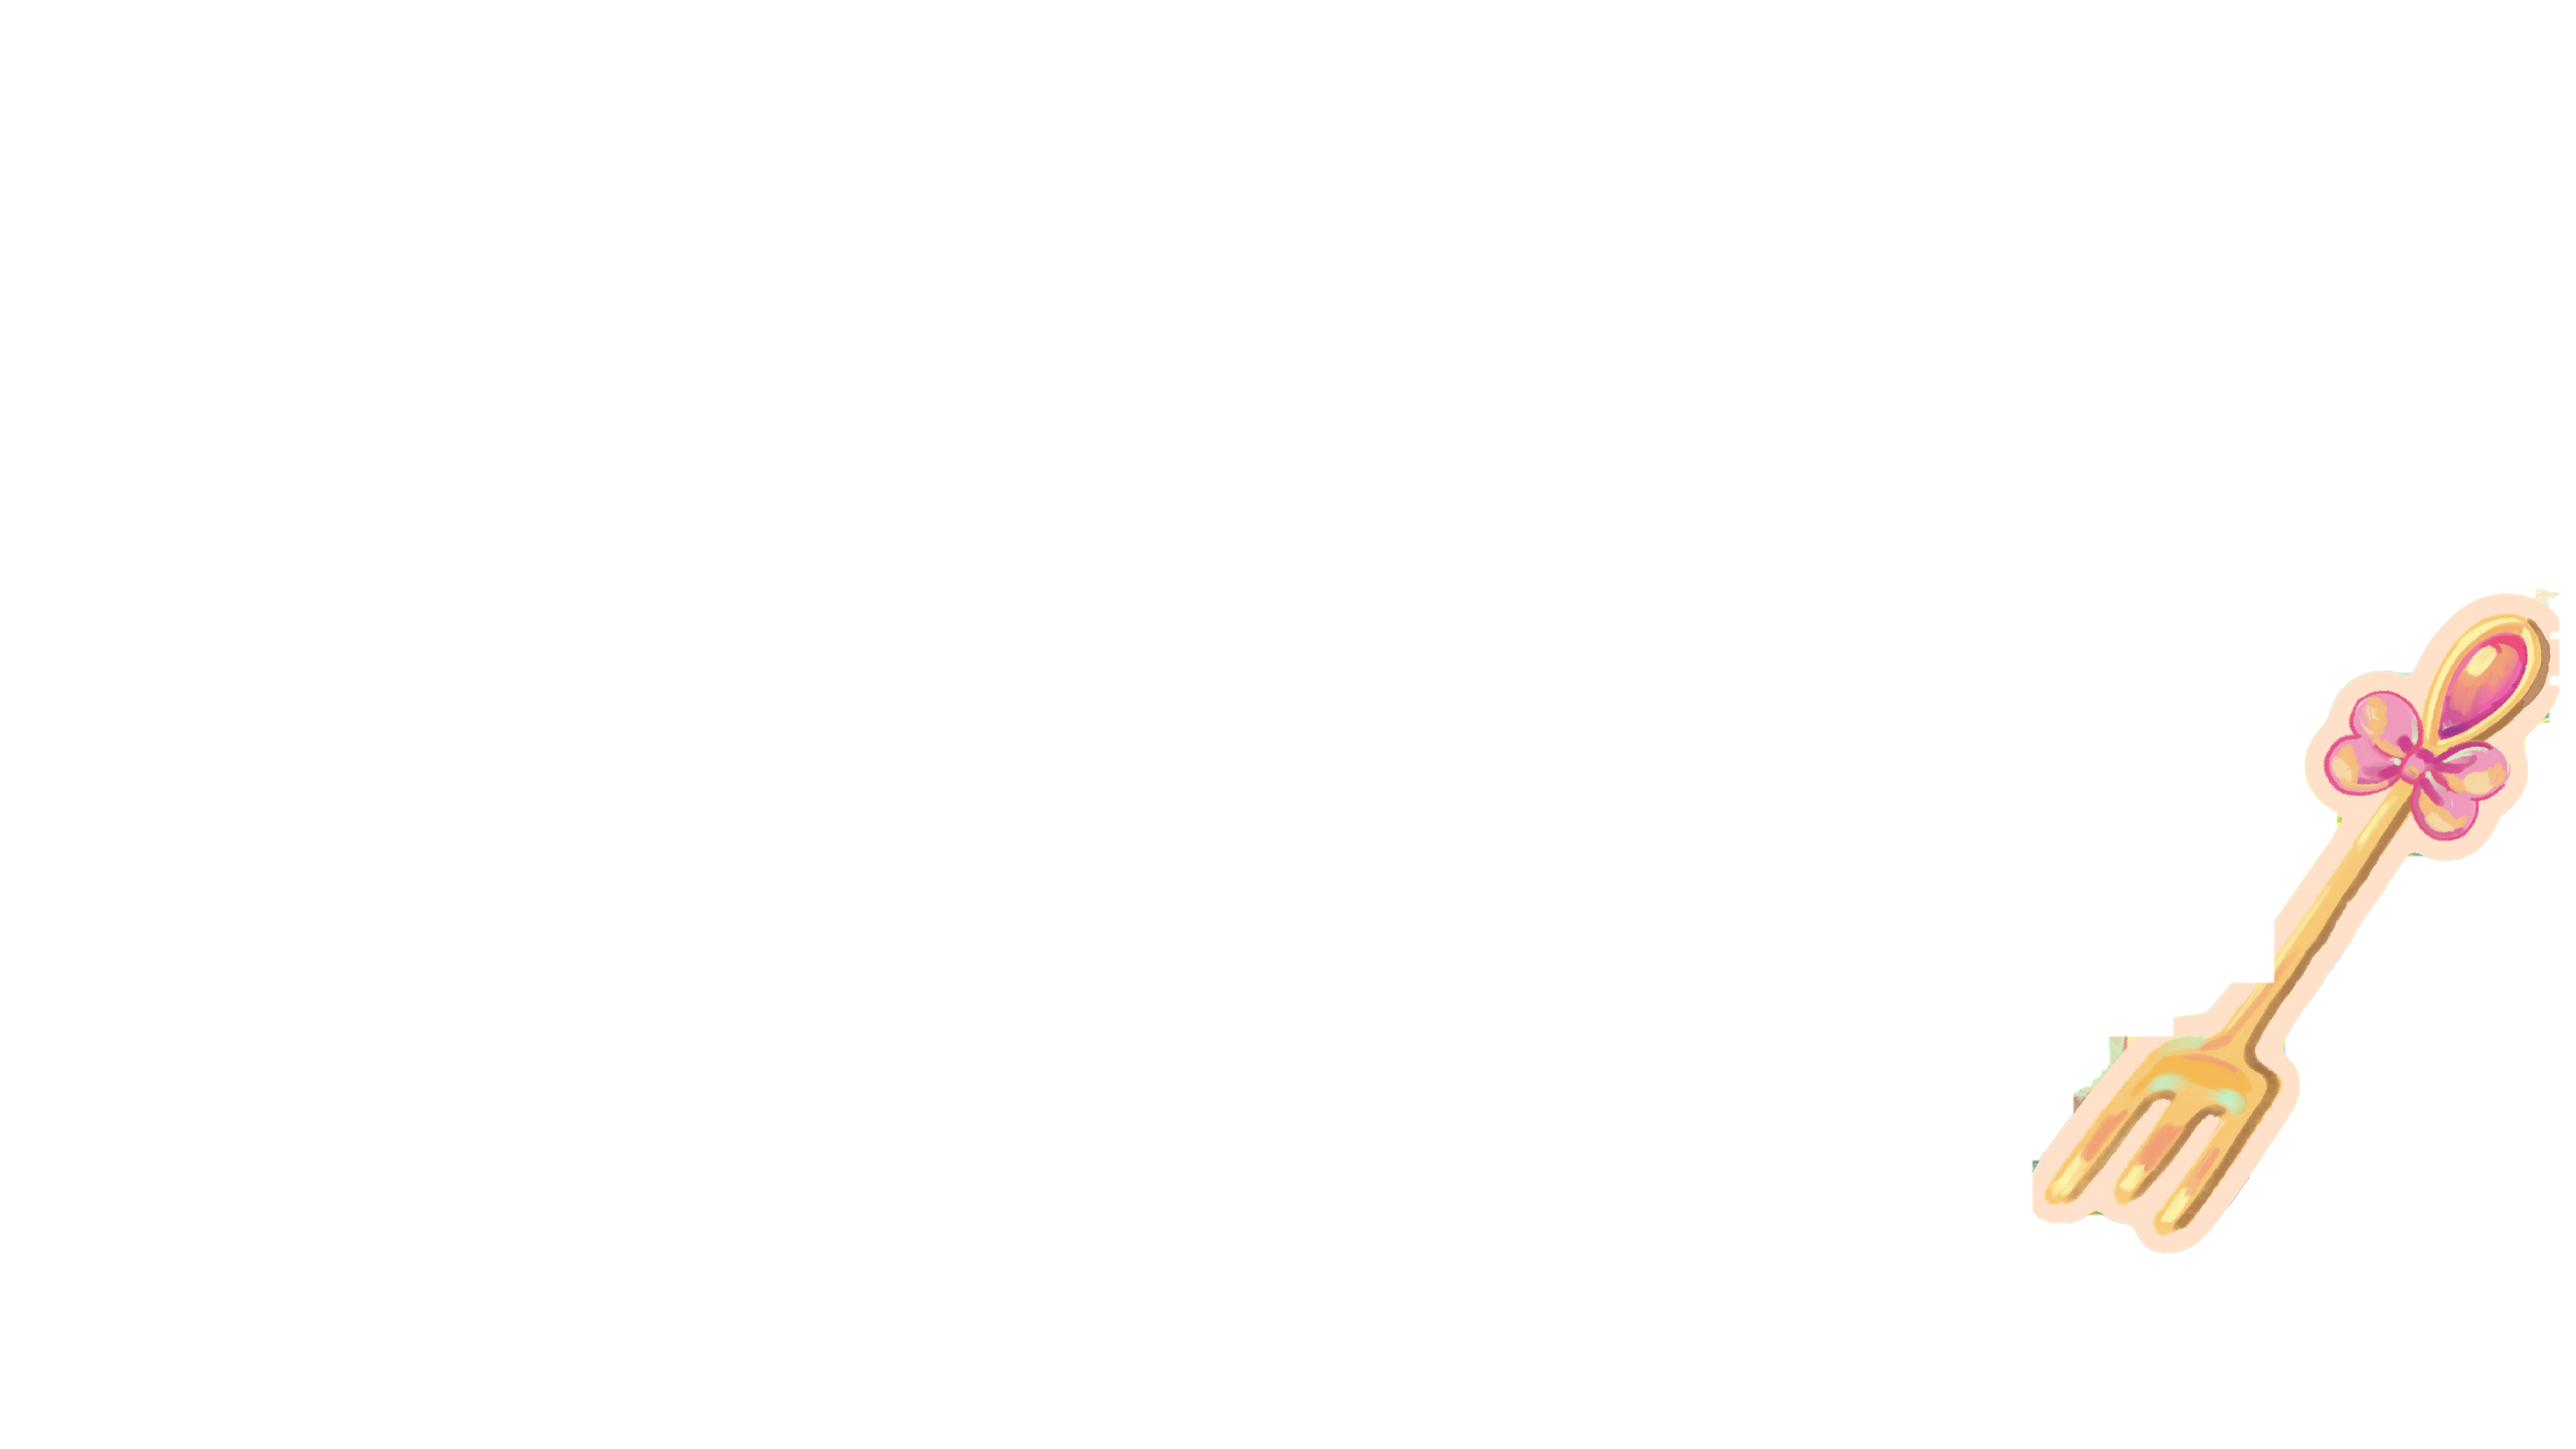
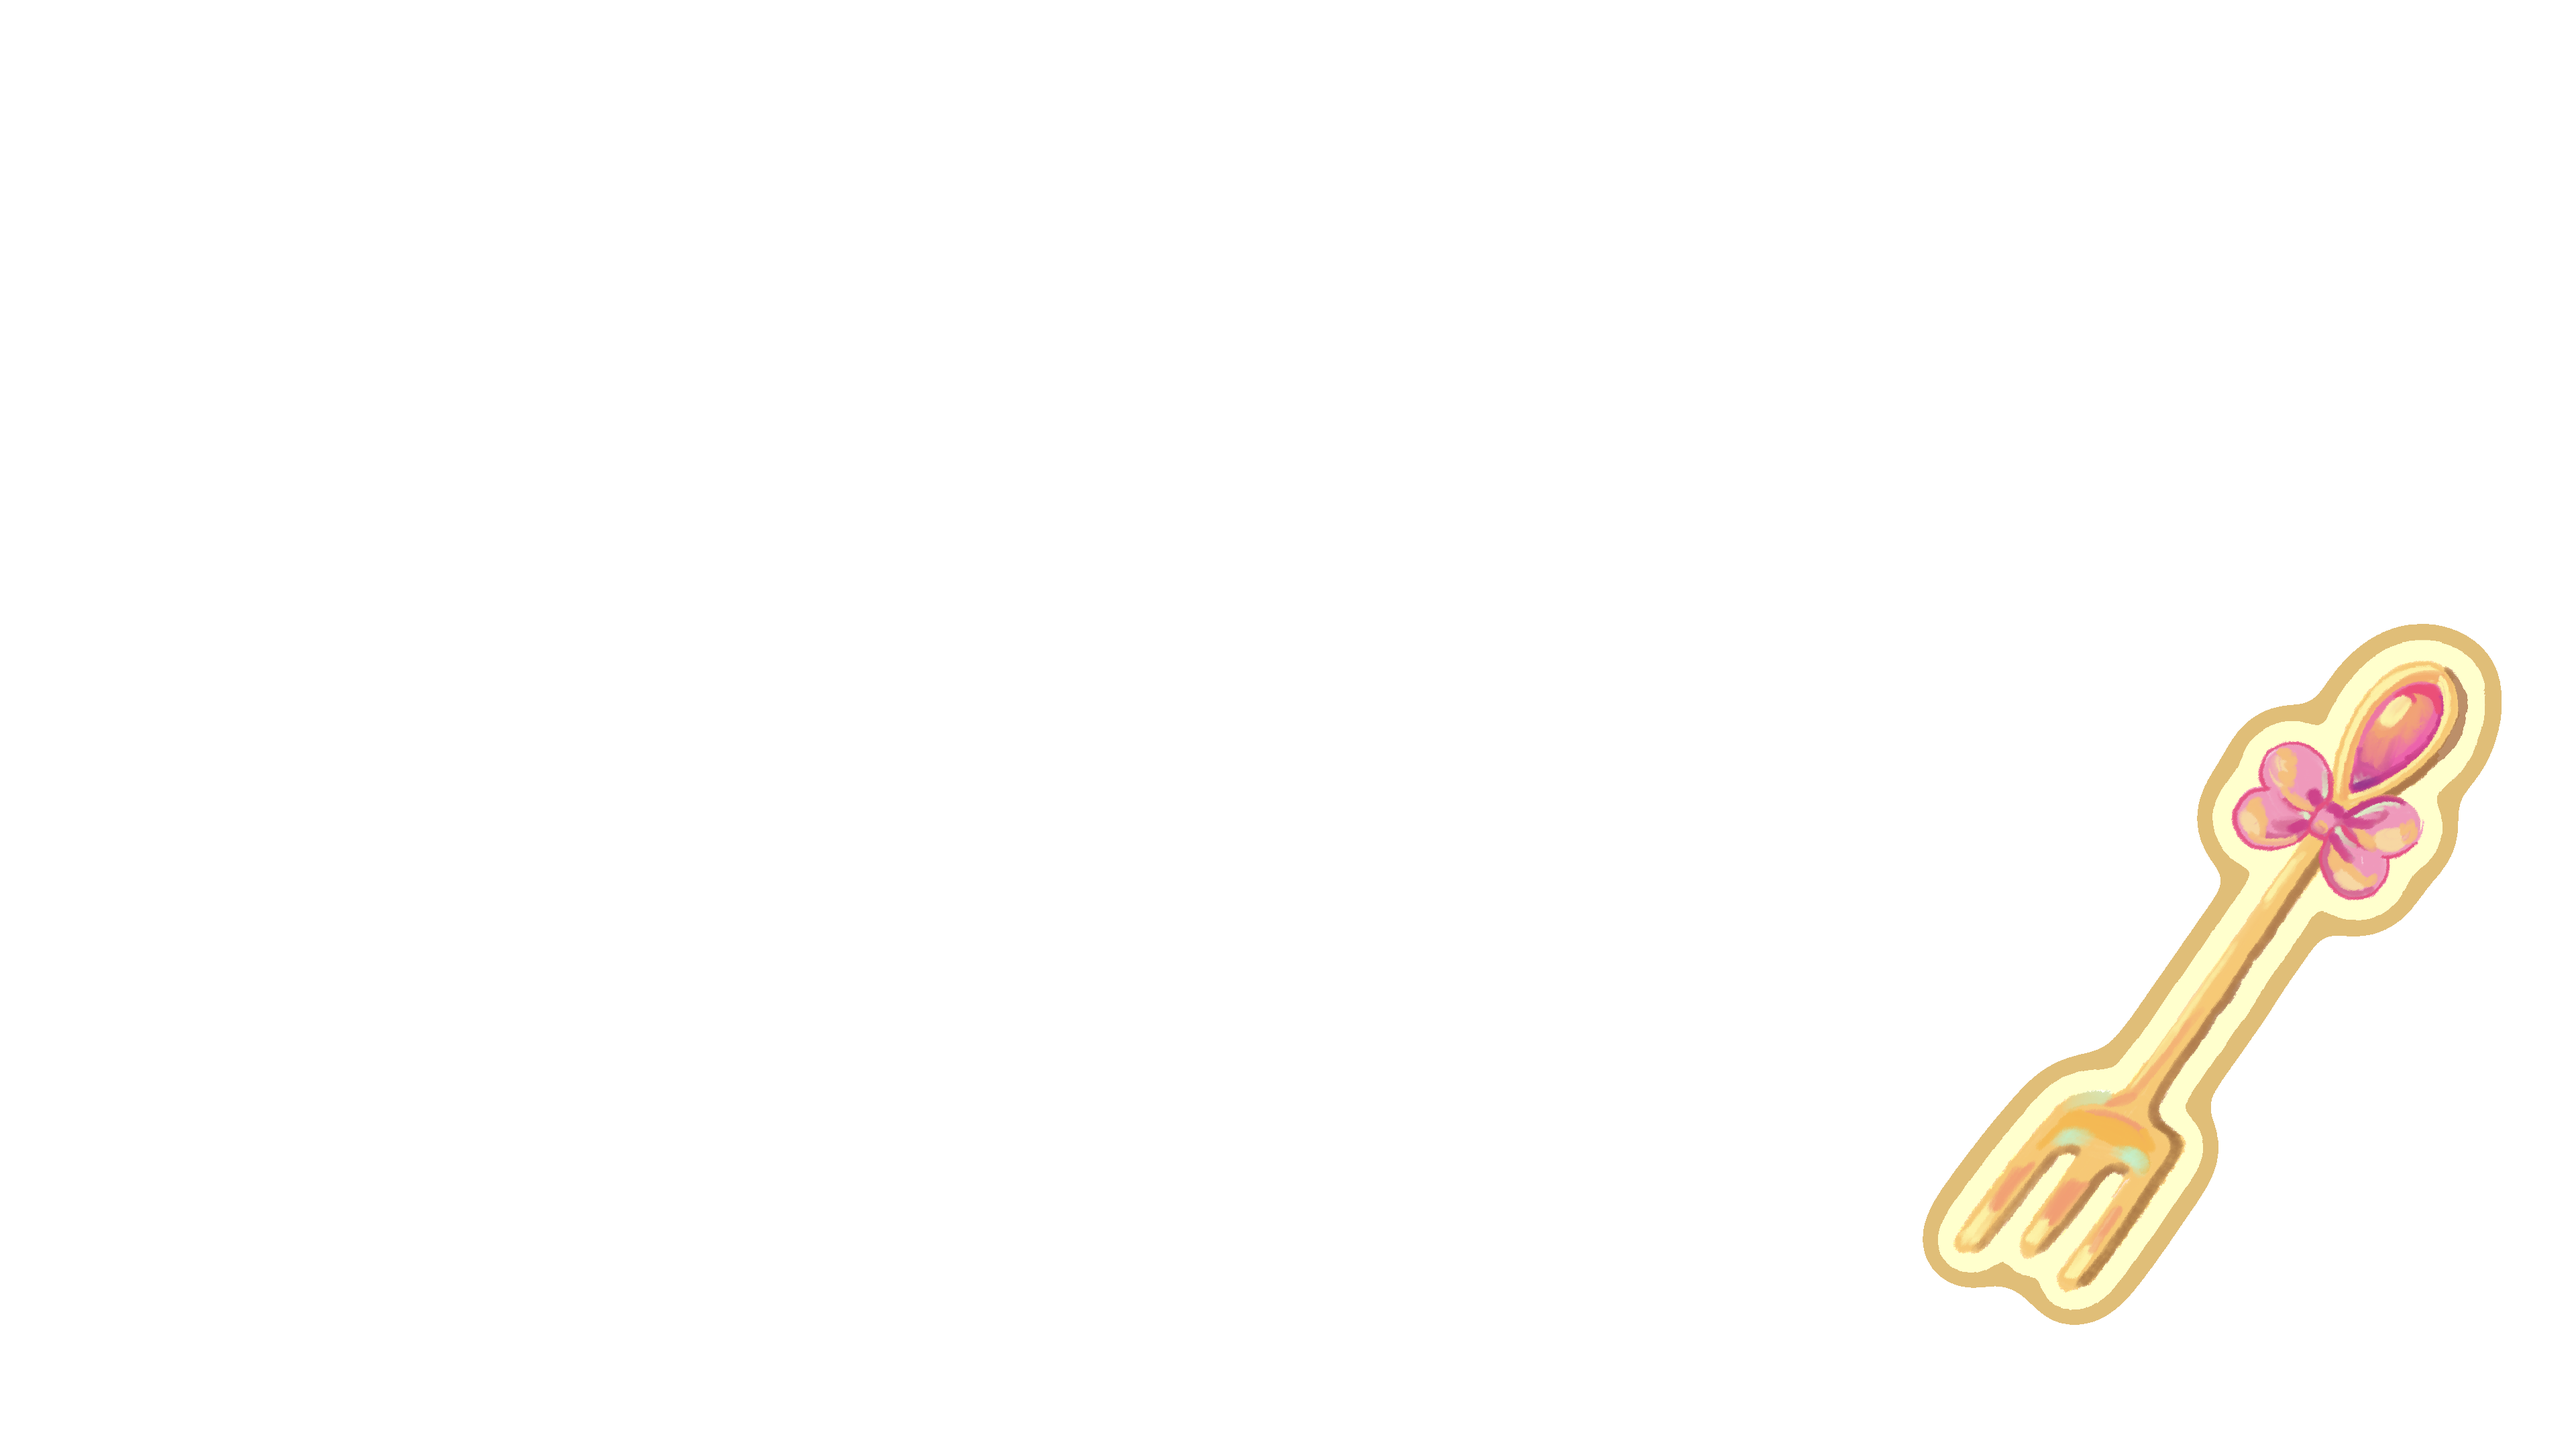
Swap in the owner's new main-screen artwork; louder dialogue pops
The title background, title plate and spoon/fork are replaced with the
files from the owner's folder. The new background has no spoon and fork
painted in, so the inpainted patch layer is no longer drawn. The spoon
and fork arrive on one layer; it is split down the middle, pixels
untouched, so each keeps its own drift, with the pivots moved to the
new centres. The portrait logo band widens to rows 1-52% for the new
plate. title-bg-patch.png stays on disk but is unreferenced.

The fox's dialogue pops go from 0.5 to 0.85 (about +4.6 dB) at the
owner's request.

Changed region(s): [[0.75, 0.4032, 1.0, 0.9306]]

diff --git a/src/components/TitleScreen.jsx b/src/components/TitleScreen.jsx
@@ -1,11 +1,11 @@
 import { motion } from 'framer-motion'
 import { ArtStage, ArtLayer, GoldFrame, ArtBandCrop, LoadingCover } from './shared/ArtStage'
-import { titleBg, titleLogo, titleSpoon, titleFork, titleBgPatch, goldFrames } from '../assets/screenImages'
+import { titleBg, titleLogo, titleSpoon, titleFork, goldFrames } from '../assets/screenImages'
 import { useImagesReady } from '../hooks/useImagesReady'
 import { tapWord } from '../lib/device'
 
 // App 전역 게이트가 전 자산을 선로드하므로 보통 즉시 통과하는 안전망
-const TITLE_SRCS = [titleBg, titleBgPatch, titleSpoon, titleFork, titleLogo, ...goldFrames]
+const TITLE_SRCS = [titleBg, titleSpoon, titleFork, titleLogo, ...goldFrames]
 
 export default function TitleScreen({ onStart }) {
   const { ready } = useImagesReady(TITLE_SRCS)
@@ -18,18 +18,17 @@ export default function TitleScreen({ onStart }) {
       aria-label="시작하기"
     >
       <ArtStage className="art-reveal bg-ink">
-        {/* 배경 켄번즈 줌 안에 스푼·포크까지 넣어야 메운 자리(patch)와 어긋나지 않는다 */}
+        {/* 스푼·포크도 배경 켄번즈 줌 안에 — 배경과 같이 커져야 자리가 어긋나지 않는다 */}
         <div className="absolute inset-0 art-zoom">
           <ArtLayer src={titleBg} />
-          <ArtLayer src={titleBgPatch} />
 
-          {/* 배경에서 떼어낸 스푼·포크 — 제자리에서 서로 어긋나게 둥실 */}
-          <div className="absolute inset-0 art-drift" style={{ transformOrigin: '10.9% 66.4%' }}>
+          {/* 스푼·포크 — 제자리에서 서로 어긋나게 둥실. 회전 중심 = 각 그림의 한가운데(새 원화 기준) */}
+          <div className="absolute inset-0 art-drift" style={{ transformOrigin: '12.5% 66.4%' }}>
             <ArtLayer src={titleSpoon} />
           </div>
           <div
             className="absolute inset-0 art-drift"
-            style={{ transformOrigin: '89.1% 63.4%', animationDelay: '-3.1s', '--drift-dir': -1 }}
+            style={{ transformOrigin: '85.9% 67.2%', animationDelay: '-3.1s', '--drift-dir': -1 }}
           >
             <ArtLayer src={titleFork} />
           </div>
@@ -56,7 +55,7 @@ export default function TitleScreen({ onStart }) {
         transition={{ duration: 1, ease: [0.16, 1, 0.3, 1], delay: 0.2 }}
         className="hidden portrait:block absolute top-[6%] left-1/2 -translate-x-1/2 w-[94vw] z-10"
       >
-        <ArtBandCrop src={titleLogo} top={1} bottom={49} />
+        <ArtBandCrop src={titleLogo} top={1} bottom={52} />
       </motion.div>
 
       {/* 하단 시작 안내 — 뷰포트 기준(세로 크롭에서도 항상 보이게) */}

diff --git a/src/assets/screenImages.js b/src/assets/screenImages.js
@@ -5,7 +5,6 @@ import titleBg from './images/screens/title-bg.png'
 import titleLogo from './images/screens/title-logo.png'
 import titleSpoon from './images/screens/title-spoon.png'
 import titleFork from './images/screens/title-fork.png'
-import titleBgPatch from './images/screens/title-bg-patch.png'
 import gold1 from './images/screens/gold-1.png'
 import gold2 from './images/screens/gold-2.png'
 import gold3 from './images/screens/gold-3.png'
@@ -34,9 +33,11 @@ import ingChoco from './images/screens/ing-choco.png'
 import cardPlate from './images/screens/card-plate.png'
 
 // cardPlate: 카드 확대 화면의 해설 명판 (뼈다귀 프레임, 680x268)
-// titleSpoon/titleFork: 타이틀 배경에 그려져 있던 스푼·포크를 떼어낸 레이어.
-// titleBgPatch: 그 자리를 메운 배경 조각 — 배경 바로 위에 깔아야 원본 스푼이 비치지 않는다.
-export { titleBg, titleLogo, titleSpoon, titleFork, titleBgPatch,
+// 타이틀 원화 (2026-11-05 대표가 새 그림으로 교체 — SY_Prj\메인화면 교체):
+//  titleBg = 스푼·포크가 없는 배경, titleLogo = '여우씨와 비밀의 레시피' 명판.
+//  titleSpoon/titleFork = 작가가 한 장에 그려 준 스푼·포크 레이어를 가운데서 좌우로만 나눈 것(픽셀 그대로) — 따로 둥실거리게.
+//  예전 배경은 스푼·포크가 그려져 있어 메우는 조각(title-bg-patch.png)이 필요했지만 이제 쓰지 않는다.
+export { titleBg, titleLogo, titleSpoon, titleFork,
          openingBg, openingBubble, openingObject, bookmarkBg, cardPlate }
 
 // 금장 프레임 (1=좌상 2=상중앙 3=우상 4=좌하 5=우하 — 세 화면 공통 동일 원본)

diff --git a/src/App.jsx b/src/App.jsx
@@ -8,7 +8,7 @@ import { useImagesReady } from './hooks/useImagesReady'
 import KioskIdlePrompt from './components/shared/KioskIdlePrompt'
 import { LoadingCover } from './components/shared/ArtStage'
 import {
-  titleBg, titleLogo, titleSpoon, titleFork, titleBgPatch, goldFrames,
+  titleBg, titleLogo, titleSpoon, titleFork, goldFrames,
   openingBg, openingBubble, openingObject,
   bookmarkBg, grassLayers, bookmarkTitles, ingredientLayers, cardPlate,
 } from './assets/screenImages'
@@ -39,7 +39,7 @@ const isKiosk = readKioskFlag()
 // 시작 시 전 흐름 자산을 한 번에 로드 — 이후 어떤 화면에서도 요소가 낱장으로 뜨지 않는다.
 // (결과 디저트 이미지는 오븐 대기 중 선로딩되는 기존 경로 유지)
 const ALL_ART_SRCS = [
-  titleBg, titleBgPatch, titleSpoon, titleFork, titleLogo, ...goldFrames,
+  titleBg, titleSpoon, titleFork, titleLogo, ...goldFrames,
   openingBg, openingBubble, openingObject, ...foxLayerSources,
   bookmarkBg, ...grassLayers,
   ...Object.values(bookmarkTitles), ...Object.values(ingredientLayers),

diff --git a/src/lib/sound.js b/src/lib/sound.js
@@ -20,7 +20,7 @@ const url = (name) => Object.entries(files).find(([p]) => p.split('/').pop().rep
 // 여기서는 배경음악만 내린다 — 0.6(-4.4dB → 약 -22.8 LUFS). 2026-11-05 대표가 귀로 듣고 "살짝 작게"(0.85 → 0.6, 3dB 더).
 // 기준 범위(-18±2)보다 조금 아래지만 효과음 밑에 깔리는 음악이라 대표 판단을 따른다.
 // 음원을 바꾸면 원본에서 다시 평탄화할 것(원본 = SY_Prj\사운드\, 측정·변환 명령은 커밋 메시지).
-const VOLUME = { bgm: 0.6, ...Object.fromEntries(Array.from({ length: 8 }, (_, i) => [`blip-${i + 1}`, 0.5])) } // 그 외 효과음은 1. 블립은 -6dBFS 피크 파일을 절반으로(대사 밑에 깔리게)
+const VOLUME = { bgm: 0.6, ...Object.fromEntries(Array.from({ length: 8 }, (_, i) => [`blip-${i + 1}`, 0.85])) } // 그 외 효과음은 1. 블립은 -6dBFS 피크 파일 — 2026-11-05 대표 "좀 더 크게"(0.5 → 0.85, 약 +4.6dB)
 // 무작위로 고르는 묶음
 const POOLS = {
   flip: ['flip-1', 'flip-2'],

diff --git a/.claude/skills/art-screens/SKILL.md b/.claude/skills/art-screens/SKILL.md
@@ -20,6 +20,8 @@ description: "원화 화면·UI 아트 — 3840x2160 원화 레이어(ArtStage·
 
 ## 타이틀 스푼·포크 둥실
 
+> 2026-11-05 대표가 타이틀 원화를 새 그림으로 교체: 배경(`title-bg.png`)에 스푼·포크가 없고, 작가가 스푼·포크를 한 장 레이어로 따로 줬다. 그 레이어를 가운데서 좌우로만 나눈 것이 `title-spoon.png`/`title-fork.png`(픽셀 그대로). **메우는 조각 `title-bg-patch.png`는 이제 쓰지 않는다** — 아래 patch 설명은 예전 배경 기준의 기록이다. 흔들림(`.art-drift`)과 `art-zoom` 안에 넣는 규칙은 그대로.
+
 원화 `title-bg.png`에 그려져 있던 좌우 스푼·포크를 떼어내 따로 띄운다. 작가 원본은 그대로 두고 파생 3장을 추가:
 - `title-spoon.png` / `title-fork.png` — 실루엣만 남긴 컷아웃 (GrabCut + 색 정리, 스크래치패드 스크립트)
 - `title-bg-patch.png` — 떼어낸 자리를 메운 배경 조각. **배경 바로 위에 깔아야** 원본 스푼이 비치지 않는다.
